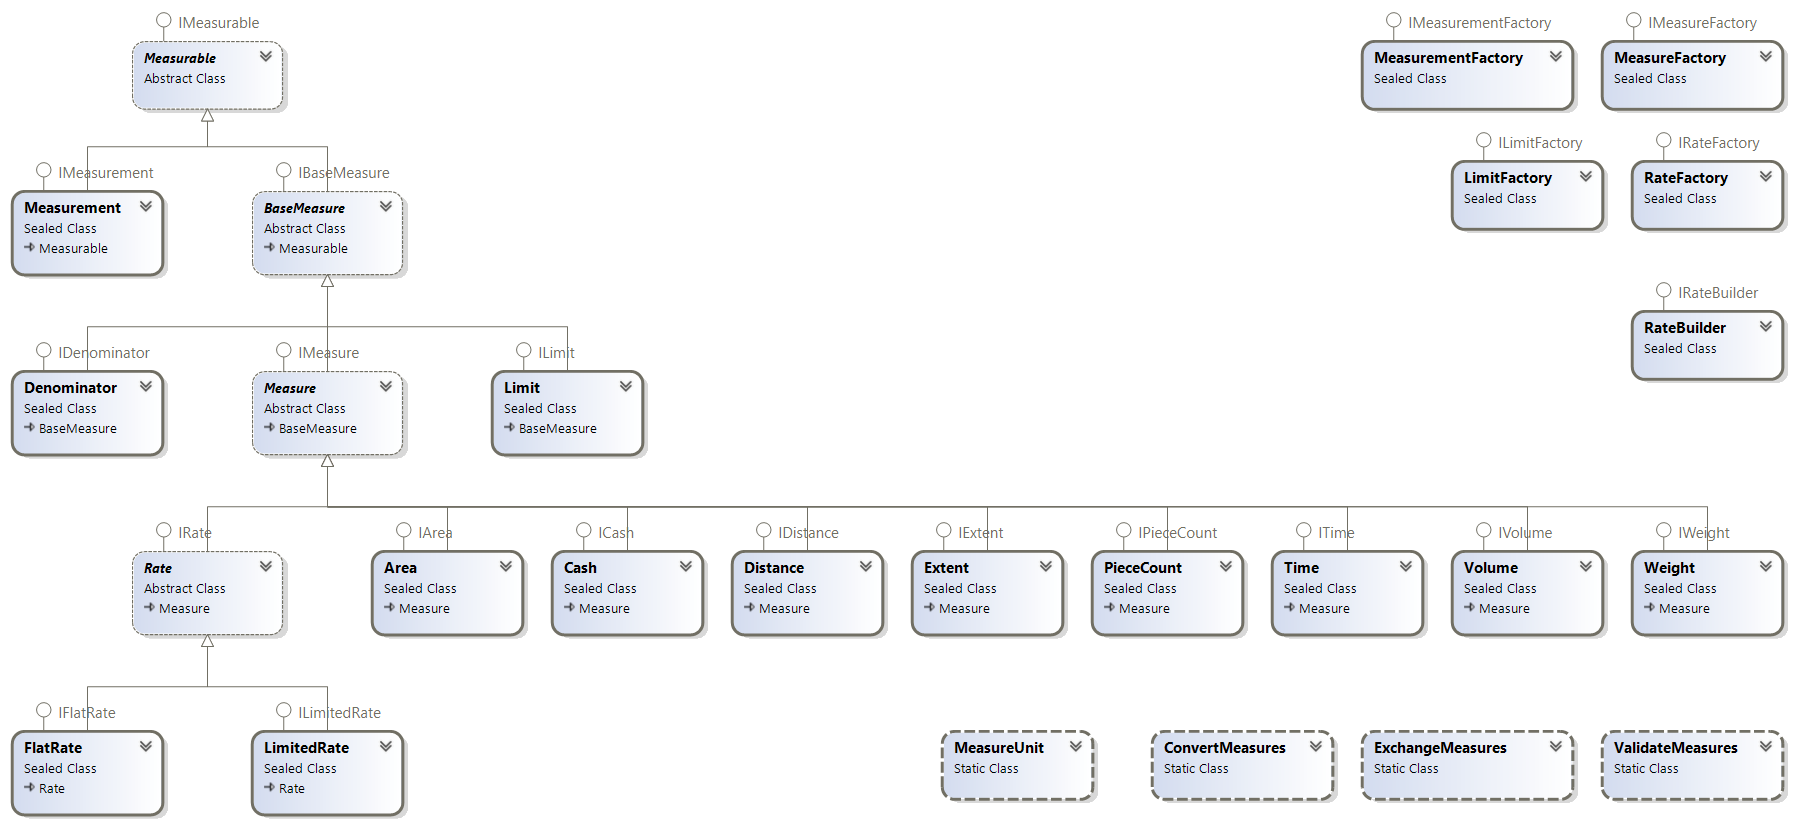
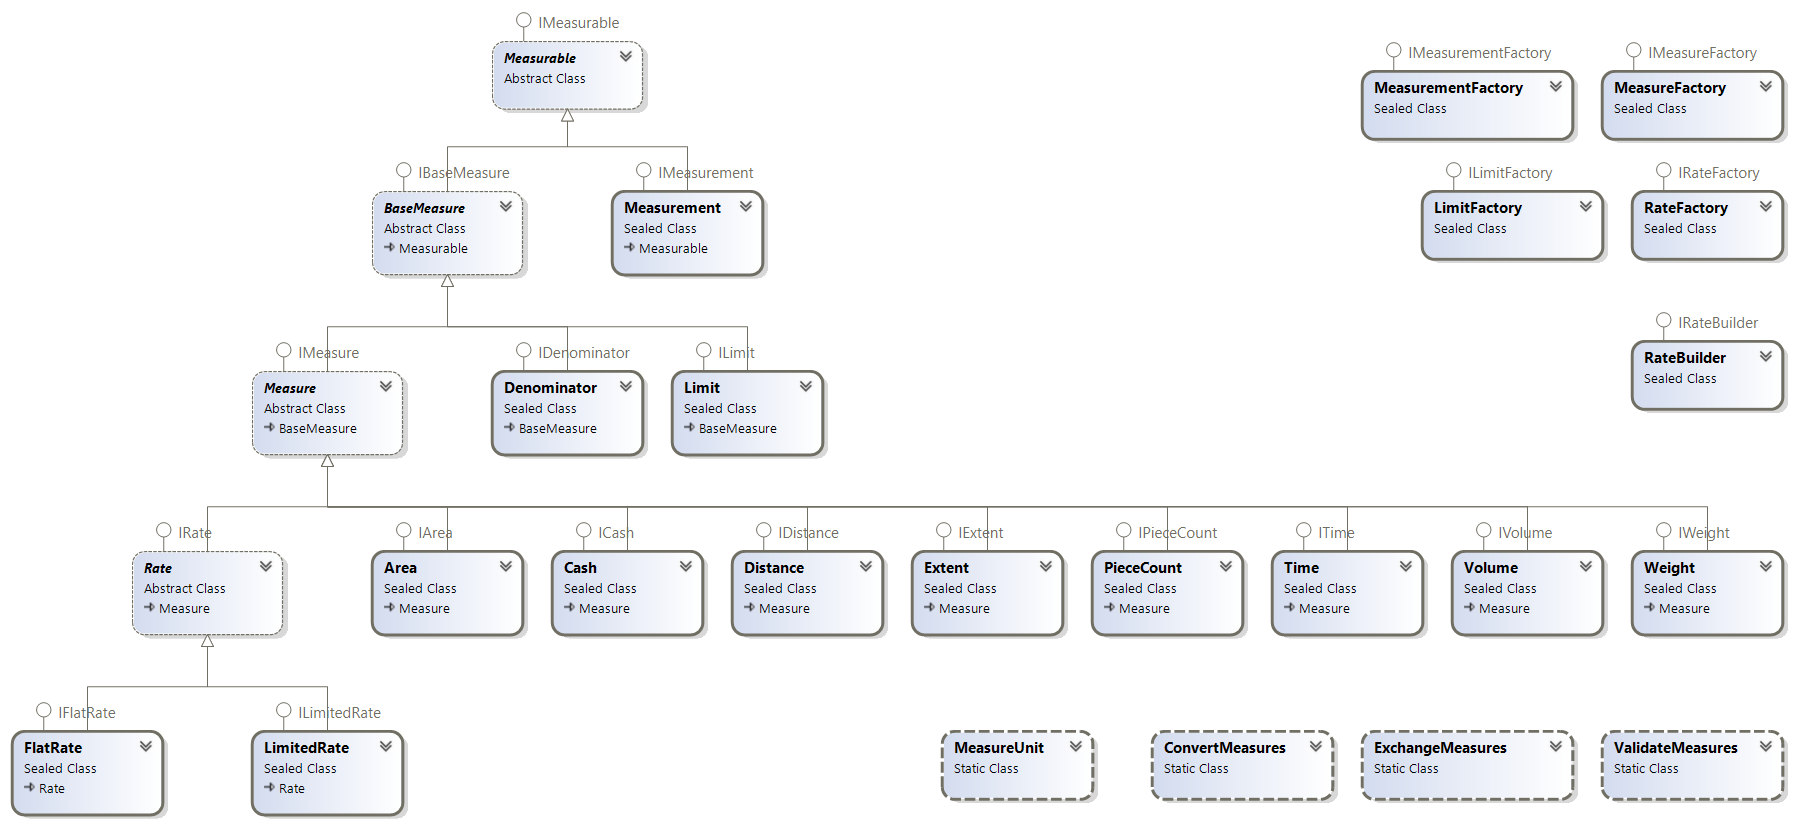
Refactor IProportional interface, class diagrams

diff --git a/Tests/UnitTests/Measures/DataTypes/BaseMeasureTests.cs b/Tests/UnitTests/Measures/DataTypes/BaseMeasureTests.cs
@@ -96,6 +96,7 @@ public class BaseMeasureTests
     }
     #endregion
 
+    #region BaseMeasure(ValueType quantity, Enum measureUnit, decimal? exchangeRate = null)
     #region MeasureUnitType validation
 
     [TestMethod, TestCategory("UnitTest")]
@@ -162,7 +163,6 @@ public class BaseMeasureTests
     }
     #endregion
 
-    #region BaseMeasure(ValueType quantity, Enum measureUnit, decimal? exchangeRate = null)
     [TestMethod, TestCategory("UnitTest")]
     public void Ctor_ThreeNullArgs_ThrowsArgumentNullException()
     {
@@ -398,6 +398,7 @@ public class BaseMeasureTests
     }
 
     #endregion
+
     #endregion
 
     #region GetBaseMeasure
@@ -995,6 +996,5 @@ public class BaseMeasureTests
         Assert.AreEqual(expected, actual);
     }
     #endregion
-
 }
 #nullable enable

diff --git a/Measures/DataTypes/Rate.cs b/Measures/DataTypes/Rate.cs
@@ -116,7 +116,7 @@ internal abstract class Rate : Measure, IRate
         return Denominator.HasSameMeasureUnitType(otherDenominatorMeasureUnit);
     }
 
-    public decimal ProportionalTo(IRate? other)
+    public decimal ProportionalTo(IRate other)
     {
         _ = other ?? throw new ArgumentNullException(nameof(other));
 
@@ -125,7 +125,7 @@ internal abstract class Rate : Measure, IRate
         IMeasure otherNumerator = other.GetNumerator();
 
         decimal numeratorRatio = ProportionalTo(otherNumerator);
-
+            
         IDenominator otherDenominator = other.Denominator;
 
         if (otherDenominator.GetExchangeRate() == Denominator.GetExchangeRate()) return numeratorRatio;

diff --git a/Tests/UnitTests/Measures/DataTypes/MeasurableTests.cs b/Tests/UnitTests/Measures/DataTypes/MeasurableTests.cs
@@ -33,6 +33,7 @@ public class MeasurableTests
 
     #region Constructor
 
+    #region Measurable(IMeasurementFactory measurementFactory, Enum measureUnit)
     #region MeasurementFactory validation
 
     [TestMethod, TestCategory("UnitTest")]
@@ -119,7 +120,9 @@ public class MeasurableTests
     }
 
     #endregion
+    #endregion
 
+    #region Measurable(IMeasurement measurement)
     #region IMeasurement validation
 
     [TestMethod, TestCategory("UnitTest")]
@@ -159,6 +162,7 @@ public class MeasurableTests
         Assert.AreEqual(expectedMeasureUnit, actual.MeasureUnit);
     }
 
+    #endregion
     #endregion
 
     #endregion

diff --git a/Geometrics/DataTypes/Spread/Spread.cs b/Geometrics/DataTypes/Spread/Spread.cs
@@ -99,7 +99,7 @@ internal abstract class Spread<T, U> : ISpread<T, U> where T : IMeasure where U 
         return GetSpreadMeasure().IsExchangeableTo(spreadMeasureUnit);
     }
 
-    public decimal ProportionalTo(ISpread<T, U>? other)
+    public decimal ProportionalTo(ISpread<T, U> other)
     {
         _ = other ?? throw new ArgumentNullException(nameof(other));
 

diff --git a/Measures/DataTypes/Measurement.cs b/Measures/DataTypes/Measurement.cs
@@ -54,7 +54,7 @@ internal sealed class Measurement : Measurable, IMeasurement
         return HashCode.Combine(MeasureUnitType, ExchangeRate);
     }
 
-    public decimal ProportionalTo(IMeasurement? other)
+    public decimal ProportionalTo(IMeasurement other)
     {
         _ = other ?? throw new ArgumentNullException(nameof(other));
 

diff --git a/Measures/DataTypes/BaseMeasure.cs b/Measures/DataTypes/BaseMeasure.cs
@@ -111,7 +111,7 @@ internal abstract class BaseMeasure : Measurable, IBaseMeasure
         return GetBaseMeasure(roundedQuantity);
     }
 
-    public decimal ProportionalTo(IBaseMeasure? other)
+    public decimal ProportionalTo(IBaseMeasure other)
     {
         _ = other ?? throw new ArgumentNullException(nameof(other));
 

diff --git a/Common/Interfaces/Behaviors/IProportional.cs b/Common/Interfaces/Behaviors/IProportional.cs
@@ -2,5 +2,5 @@
 
 public interface IProportional<T, U> : IExchangeable<T, U>, IComparable<T>, IEquatable<T> where T : class where U : notnull
 {
-    decimal ProportionalTo(T? other);
+    decimal ProportionalTo(T other);
 }
